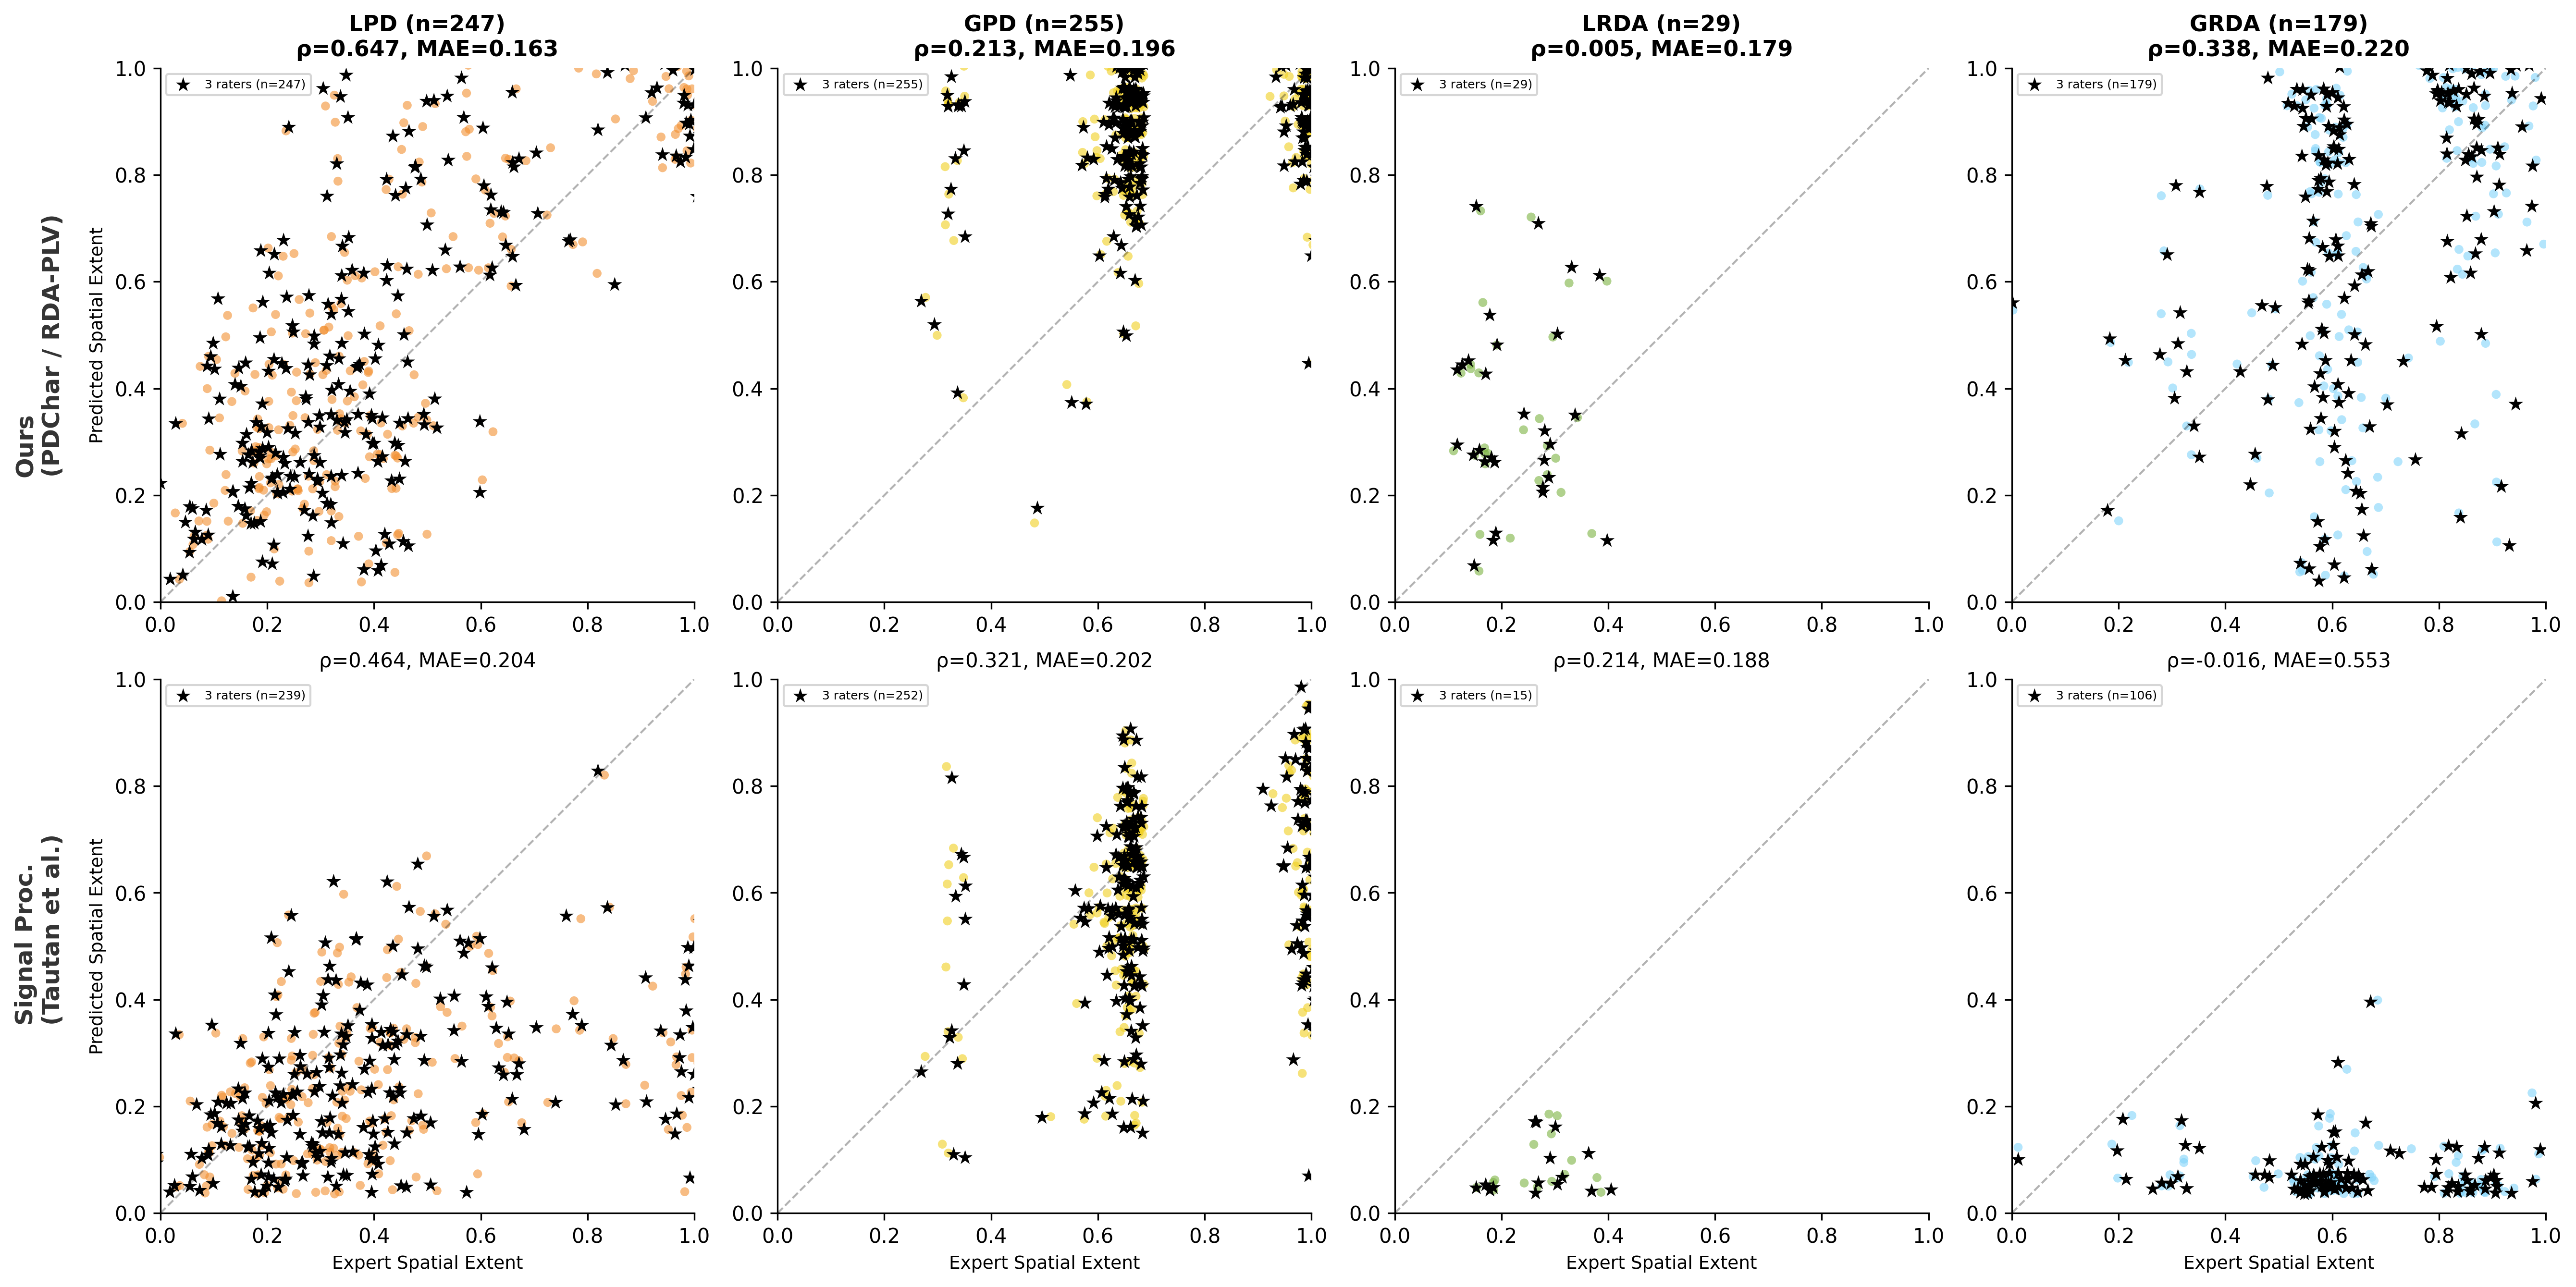
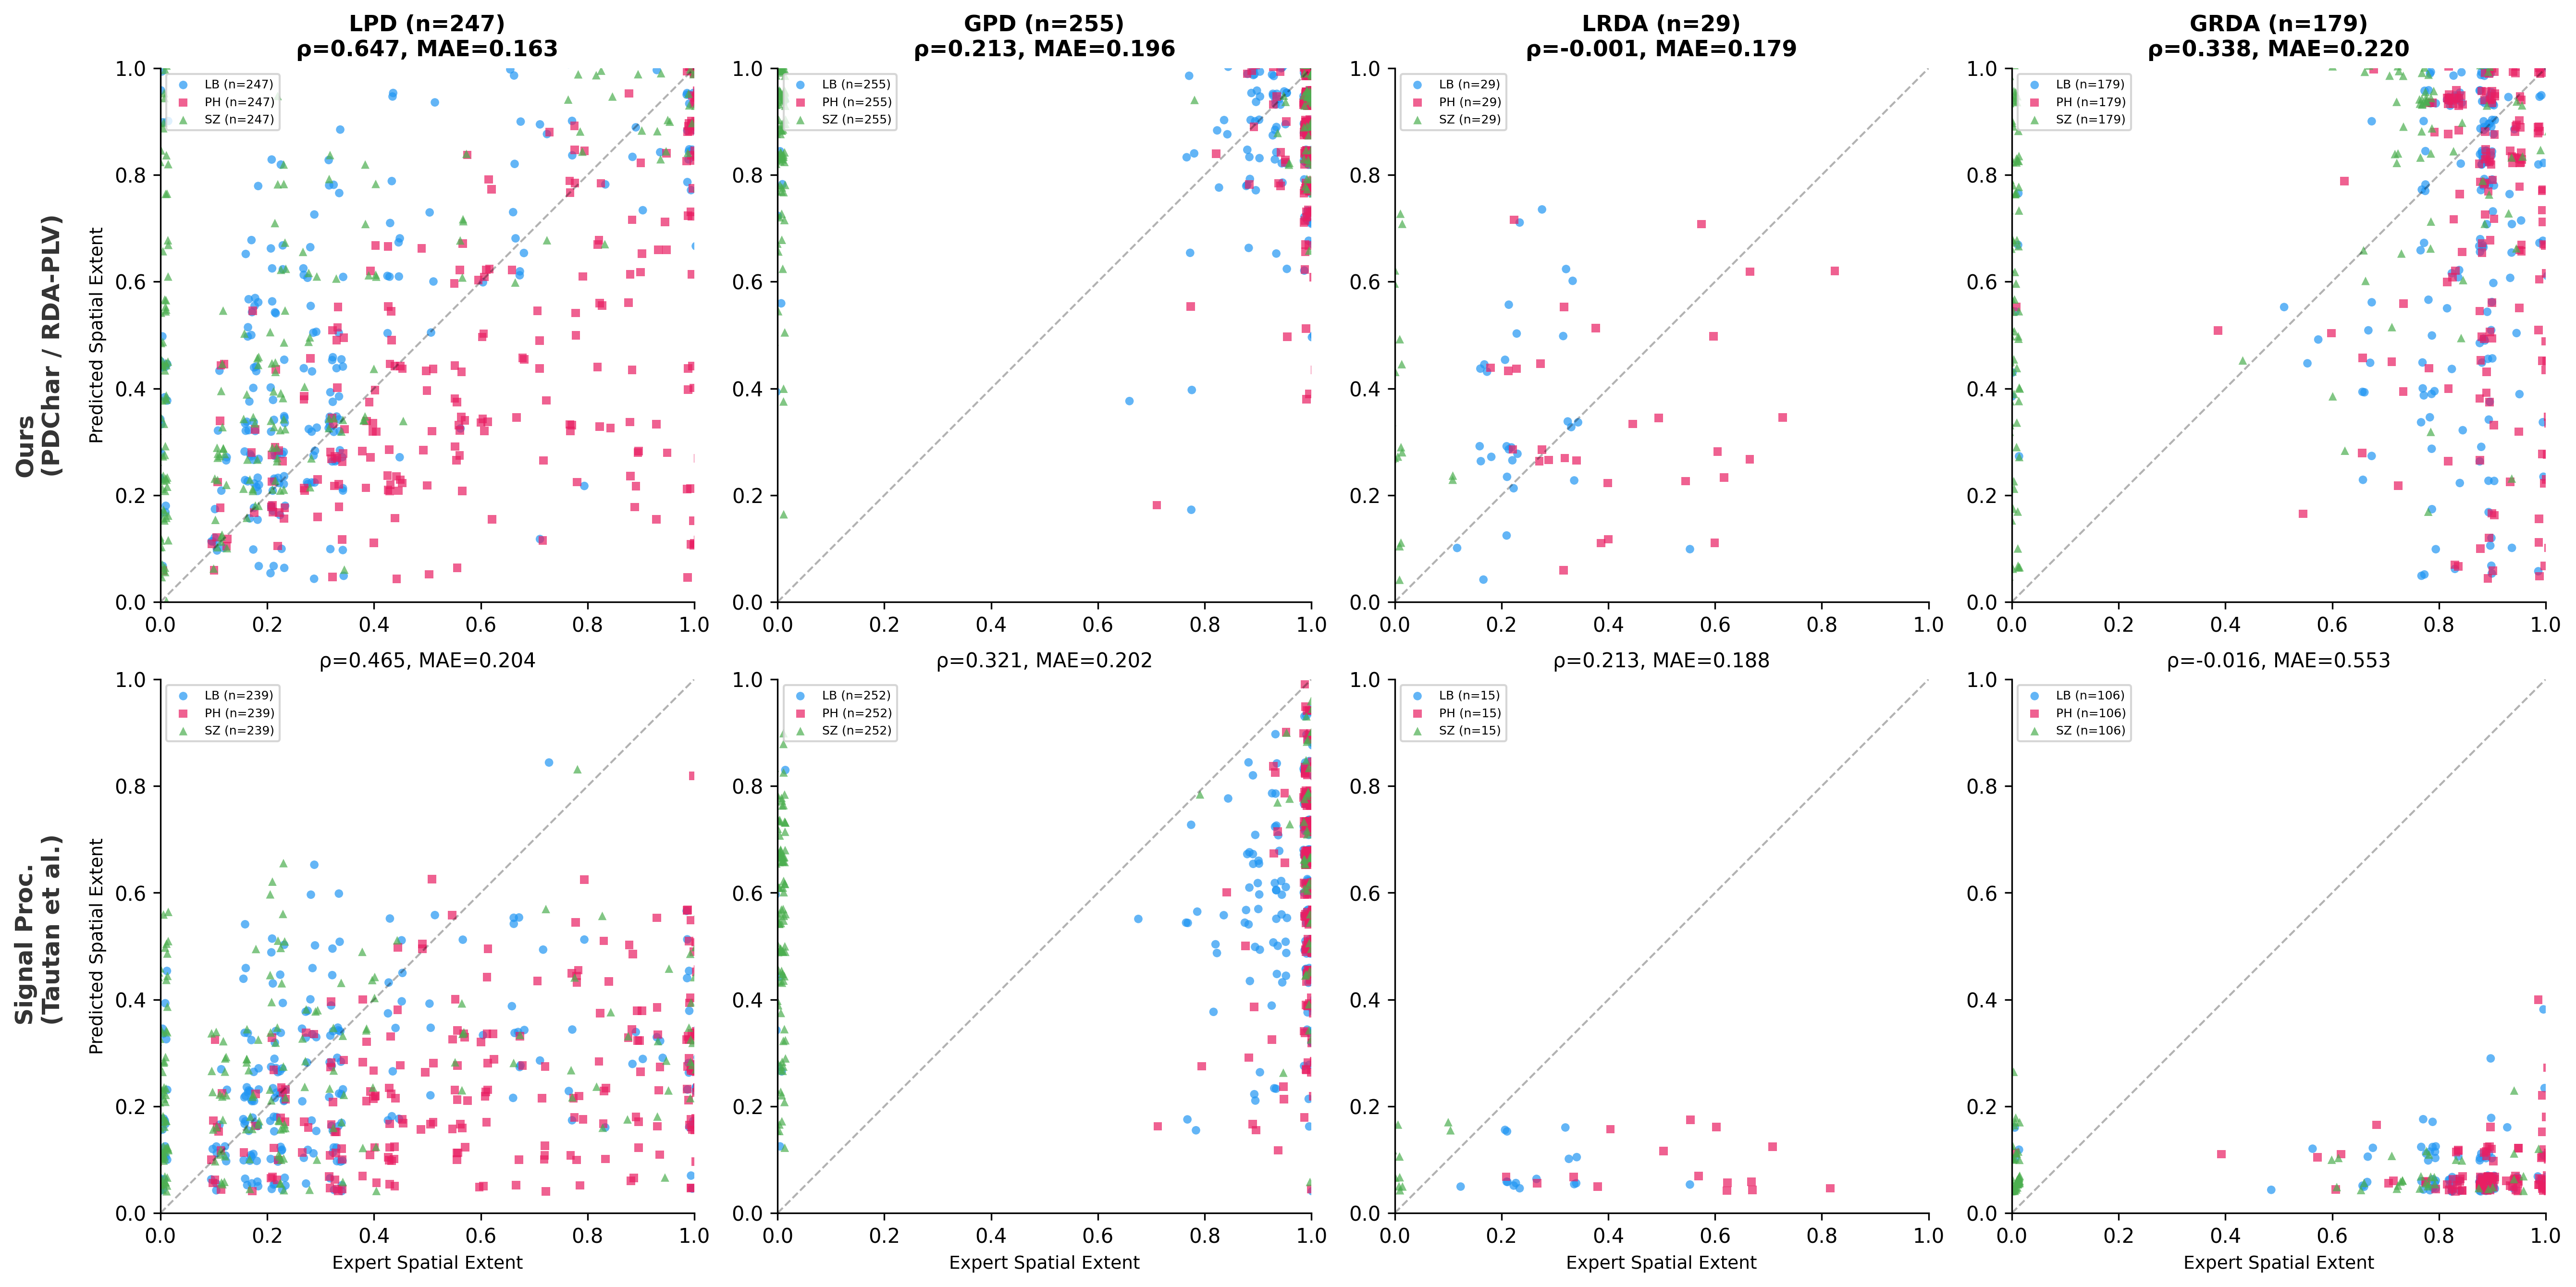
Spatial scatter: per-rater dots (LB blue, PH pink, SZ green)
Each segment shows up to 3 dots, one per expert rater. Horizontal
spread visualizes expert disagreement on spatial extent.

diff --git a/paper_materials/generate_fig_spatial_scatter.py b/paper_materials/generate_fig_spatial_scatter.py
@@ -76,17 +76,24 @@ def main():
     ann = ann[ann.excluded != True]
     sl = sl[sl.excluded != True]
 
-    # Build expert spatial extent: mean across LB/PH/SZ
-    spat = ann[ann.spatial_extent.notna() & ann.rater.isin(['LB', 'PH', 'SZ'])].copy()
+    # Build per-rater spatial extent lookup
+    RATERS = ['LB', 'PH', 'SZ']
+    RATER_COLORS = {'LB': '#2196F3', 'PH': '#E91E63', 'SZ': '#4CAF50'}  # blue, pink, green
+    RATER_MARKERS = {'LB': 'o', 'PH': 's', 'SZ': '^'}
+
+    spat = ann[ann.spatial_extent.notna() & ann.rater.isin(RATERS)].copy()
     spat['spatial_extent'] = pd.to_numeric(spat['spatial_extent'], errors='coerce')
-    spat_agg = spat.groupby('mat_file').agg(
-        mean_spat=('spatial_extent', 'mean'),
-        n_raters=('rater', 'nunique'),
-    ).reset_index()
+
+    # Per-rater per-segment lookup
+    rater_lookup = {}  # mat_file -> {rater: spatial_extent}
+    for _, row in spat.iterrows():
+        mf = row['mat_file']
+        if mf not in rater_lookup:
+            rater_lookup[mf] = {}
+        rater_lookup[mf][row['rater']] = float(row['spatial_extent'])
 
     # Require at least 2 raters
-    spat_agg = spat_agg[spat_agg.n_raters >= 2]
-    gt_lookup = dict(zip(spat_agg.mat_file, zip(spat_agg.mean_spat, spat_agg.n_raters)))
+    rater_lookup = {mf: d for mf, d in rater_lookup.items() if len(d) >= 2}
 
     # Map subtypes
     sub_lookup = dict(zip(sl.mat_file, sl.subtype))
@@ -94,17 +101,15 @@ def main():
 
     # Collect qualifying segments
     segments = []
-    for mf, (gt, nr) in gt_lookup.items():
+    for mf, rater_vals in rater_lookup.items():
         sub = sub_lookup.get(mf)
         if sub not in ('lpd', 'gpd', 'lrda', 'grda'):
-            continue
-        if not np.isfinite(gt):
             continue
         segments.append({
             'mat_file': mf,
             'subtype': sub,
-            'gt': float(gt),
-            'n_raters': int(nr),
+            'rater_vals': rater_vals,  # {rater: spatial_extent}
+            'gt_mean': float(np.mean(list(rater_vals.values()))),
             'freq_hz': float(freq_lookup.get(mf, np.nan)),
         })
 
@@ -178,36 +183,32 @@ def main():
                 ax.text(0.5, 0.5, 'No data', ha='center', va='center', transform=ax.transAxes)
                 continue
 
-            multi = [x for x in d if x['n_raters'] >= 3]
-            single = [x for x in d if x['n_raters'] < 3]
-            base_color = SUBTYPE_COLORS[sub]
-
             rng = np.random.RandomState(42)
-            jitter_scale = 0.02
+            jitter_scale = 0.015
 
-            if single:
-                gt_j = np.array([x['gt'] for x in single]) + rng.uniform(-jitter_scale, jitter_scale, len(single))
-                pr_j = np.array([x[pred_key] for x in single]) + rng.uniform(-jitter_scale, jitter_scale, len(single))
-                ax.scatter(gt_j, pr_j, alpha=1.0, s=25, color=base_color, edgecolors='none',
-                           marker='o', label=f'2 raters (n={len(single)})')
+            # Plot per-rater dots: each segment gets up to 3 dots (one per expert)
+            n_dots = 0
+            for rater in RATERS:
+                gt_vals, pr_vals = [], []
+                for x in d:
+                    if rater in x['rater_vals']:
+                        gt_vals.append(x['rater_vals'][rater])
+                        pr_vals.append(x[pred_key])
+                if not gt_vals:
+                    continue
+                gt_j = np.array(gt_vals) + rng.uniform(-jitter_scale, jitter_scale, len(gt_vals))
+                pr_j = np.array(pr_vals) + rng.uniform(-jitter_scale, jitter_scale, len(pr_vals))
+                ax.scatter(gt_j, pr_j, alpha=0.7, s=18,
+                           color=RATER_COLORS[rater], edgecolors='none',
+                           marker=RATER_MARKERS[rater], zorder=2,
+                           label=f'{rater} (n={len(gt_vals)})')
+                n_dots += len(gt_vals)
 
-            if multi:
-                gt_j = np.array([x['gt'] for x in multi]) + rng.uniform(-jitter_scale, jitter_scale, len(multi))
-                pr_j = np.array([x[pred_key] for x in multi]) + rng.uniform(-jitter_scale, jitter_scale, len(multi))
-                ax.scatter(gt_j, pr_j, alpha=1.0, s=60, color='black', edgecolors='none',
-                           marker='*', zorder=3,
-                           label=f'3 raters (n={len(multi)})')
-
-            # Colored circles behind for all points (for consistent subtype color)
-            gt_all = np.array([x['gt'] for x in d]) + rng.uniform(-jitter_scale, jitter_scale, len(d))
-            pr_all = np.array([x[pred_key] for x in d]) + rng.uniform(-jitter_scale, jitter_scale, len(d))
-            ax.scatter(gt_all, pr_all, alpha=0.6, s=20, color=base_color, edgecolors='none',
-                       marker='o', zorder=1)
-
-            gt = np.array([x['gt'] for x in d])
+            # Compute stats using mean expert GT vs prediction
+            gt_mean = np.array([x['gt_mean'] for x in d])
             pred = np.array([x[pred_key] for x in d])
-            rho, _ = spearmanr(gt, pred)
-            mae = np.mean(np.abs(gt - pred))
+            rho, _ = spearmanr(gt_mean, pred)
+            mae = np.mean(np.abs(gt_mean - pred))
 
             ax.plot([0, 1], [0, 1], 'k--', alpha=0.3, linewidth=1)
             ax.set_xlim(0, 1); ax.set_ylim(0, 1); ax.set_aspect('equal')
@@ -234,7 +235,7 @@ def main():
     for sub, label in subtypes:
         d = [s for s in segments if s['subtype'] == sub and np.isfinite(s.get('pred_ours', np.nan))]
         if not d: continue
-        gt = np.array([x['gt'] for x in d])
+        gt = np.array([x['gt_mean'] for x in d])
         pr = np.array([x['pred_ours'] for x in d])
         rho, _ = spearmanr(gt, pr)
         mae = np.mean(np.abs(gt - pr))